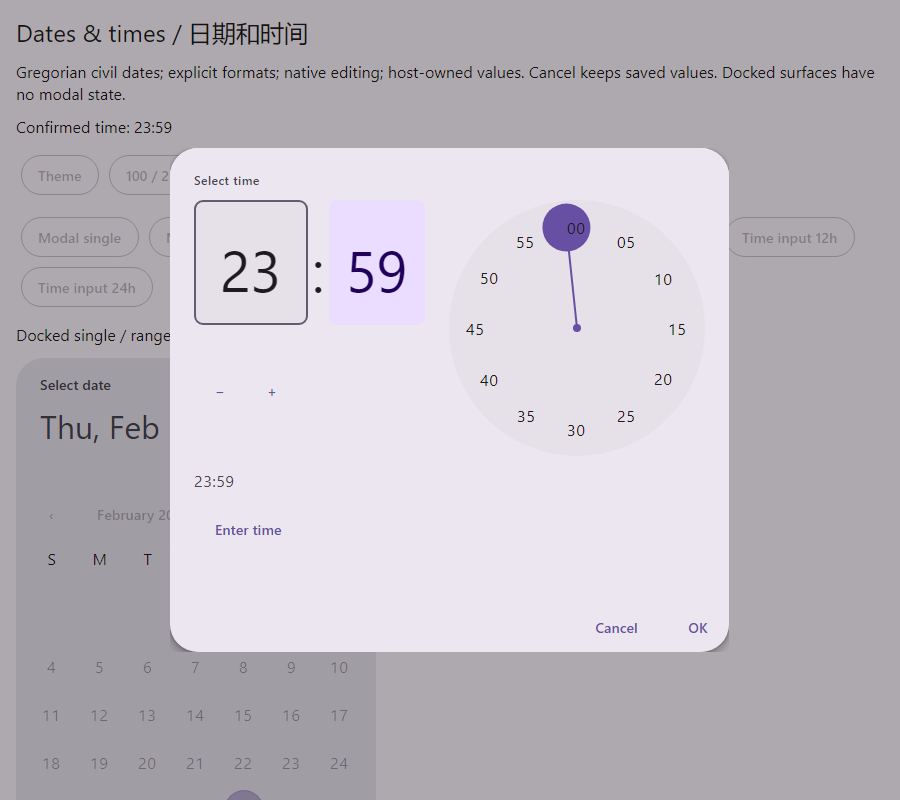
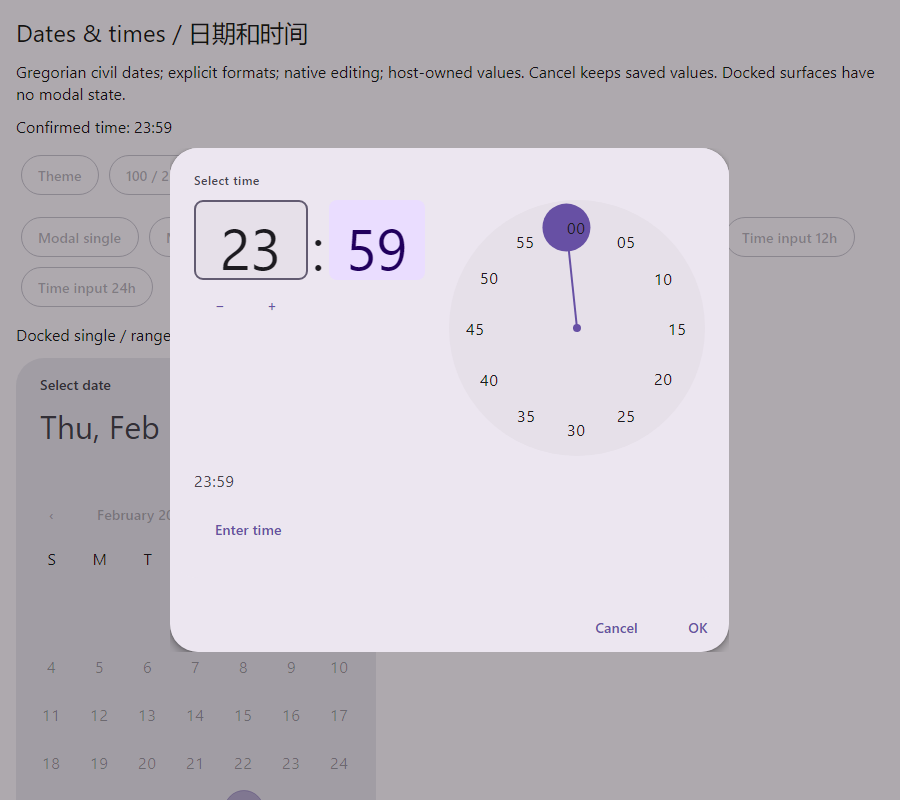
Finalize pinned selector geometry and fresh native/package evidence

Changed region(s): [[0.2489, 0.2812, 0.3422, 0.4062], [0.3733, 0.2812, 0.4667, 0.375], [0.2178, 0.375, 0.2489, 0.4062]]

diff --git a/docs/verification/m3-17.md b/docs/verification/m3-17.md
@@ -26,12 +26,13 @@ The initial missing-public-API red included normal restore (no `--no-restore` ye
 | Continuous touch minute and cancel, `Touch_clock` | Expected14:59, actual14:07; initial capture/handled-only approaches did not resolve ancestor panning | Public `PreventGestureRecognition` confines radial gesture ownership to dial; held touch moves to59, disposing cancels to7, completed release retains59. Final behavior passed, not reclassified as a hardware test |
 | Invalid date while changing culture, `Changing_culture` | Typed `13/40/2024` was erased to empty | Preserve invalid native draft, revalidate instead of formatting a null candidate; passing regression |
 | Visible date mode action, `Calendar_mode_action` | Name/target/foreground checks **passed**, but a real rendered-frame assertion then failed: no semantic icon ink | Replaced an unthemed PathIcon with directly rendered semantic Shape paths. Bitmap oracle checks actual `#49454F` ink, then real touch switches/focuses native input without submission. This caught an actual empty visual instead of treating properties as proof |
+| Horizontal clock selector recipe, `Horizontal_clock_dial` | Expected80-DIP selector, actual125 from spanning-grid stretching; initial alignment fix reduced it to84 because focused border changed the text box | Keep numeric selectors top-aligned, allocate spanning dial excess to a star row, bind full line-height/tracking and inset focus stroke without growing the standard 114×80 24h selector. Literal pinned-geometry assertion passed |
 
 Compilation corrections (missing namespace, renamed Avalonia12 API, Panel.Render being sealed, deprecated Bitmap.Save overload treated as error) are recorded as failed builds, not passing behavioral tests. Early touch attempts and the empty-icon property-only green are not falsely described as completed acceptance. Additional scenario matrices were regression additions, not invented independent red cycles.
 
 ## Scenario coverage
 
-`DateTimePickerScenarioTests` + `DateTimePickerGalleryScenarioTests`: **32 ticket cases**. The 2 gallery rows each execute **all eight modal form entry actions**, not merely constructing controls:
+`DateTimePickerScenarioTests` + `DateTimePickerGalleryScenarioTests`: **33 ticket cases**. The 2 gallery rows each execute **all eight modal form entry actions**, not merely constructing controls:
 
 - Real date native text correction, leap2024/nonleap2023/2100, ambiguous US/GB date orders, zh-CN/de-DE, explicit Gregorian ar-SA, Arabic-Indic/fullwidth decimal digits, erroneous text retention.
 - Inclusive min/max, endpoint exclusions, live bound changes, end alone/reversed/same-day range, cross-month interval and earlier-click reset, min/max civil date extrema.
@@ -42,7 +43,7 @@ Compilation corrections (missing namespace, renamed Avalonia12 API, Panel.Render
 - Public replacement Surface template with native editing; semantic roles, 256→512 font projection, DisplayMedium45→90, light/dark dial colors `#E6E0E9` / `#36343B`, disabled input/confirmation.
 - Package gallery owns saved date/range/time; confirmed actions copy payloads, Escape retains saved values. Both 900/100%-light and 320/200%-dark viewports exercise every form, scroll/bring confirmation into view and restore entry focus. Wide 24h example uses horizontal clock composition.
 
-This is not 32 normative pixel-conformance certificates, nor 32 native-platform cases.
+This is not 33 normative pixel-conformance certificates, nor 33 native-platform cases.
 
 ## Full source / isolated fresh package
 
@@ -61,9 +62,9 @@ Final reproducible command (shared desktop lock covers all native UIA/SendKeys/m
   -CommandText 'pwsh -NoProfile -File scripts/verify-issue18.ps1 -DesktopSmoke'
 ```
 
-**Final run at behavioral commit `afd5b1f`: 526 source + 547 fresh package passed, 0 failed/skipped; PickersHost 0 warnings/errors; Windows native smoke passed.** All 32 ticket cases, including the actual rendered mode icon regression and both eight-form gallery rows, ran in both suites. Sandbox `m3-issue18-1cd40af84d96410bbc4324585eb88615` was automatically cleaned. The library code was unchanged after this run; subsequent commits are evidence/docs only.
+**Final run at behavioral commit `b8c7171`: 527 source + 548 fresh package passed, 0 failed/skipped; PickersHost 0 warnings/errors; Windows native smoke passed.** All 33 ticket cases, including actual rendered mode ink, horizontal pinned geometry and both eight-form gallery rows, ran in both suites. Sandbox `m3-issue18-9a11b1f279d345ea8eff26f1f5e28312` was automatically cleaned. The library code was unchanged after this run; subsequent commits are evidence/docs only. The preceding `afd5b1f` run also passed 526/547 plus native; later inspection identified and corrected the horizontal selector stretching instead of calling that layout exact.
 
-The verifier packs the library at the current branch, uses a new package/feed/cache, copies explicit ordinary public consumer/test trees into a sandbox with **no library src project**, builds the actual Gallery from PackageReference, runs the linked ticket and retained component scenarios, builds PickersHost and runs Windows UIA/native input. It writes a public-only disposable feed file without reading/copying repository configuration. Release version remains #20's responsibility. Cumulative suite counts are not falsely called 526 date/time tests. Ignored TRX artifacts are `artifacts/TestResults/issue18/source.trx` and `package.trx`.
+The verifier packs the library at the current branch, uses a new package/feed/cache, copies explicit ordinary public consumer/test trees into a sandbox with **no library src project**, builds the actual Gallery from PackageReference, runs the linked ticket and retained component scenarios, builds PickersHost and runs Windows UIA/native input. It writes a public-only disposable feed file without reading/copying repository configuration. Release version remains #20's responsibility. Cumulative suite counts are not falsely called 527 date/time tests. Ignored TRX artifacts are `artifacts/TestResults/issue18/source.trx` and `package.trx`.
 
 ## Native script obligations and images
 
